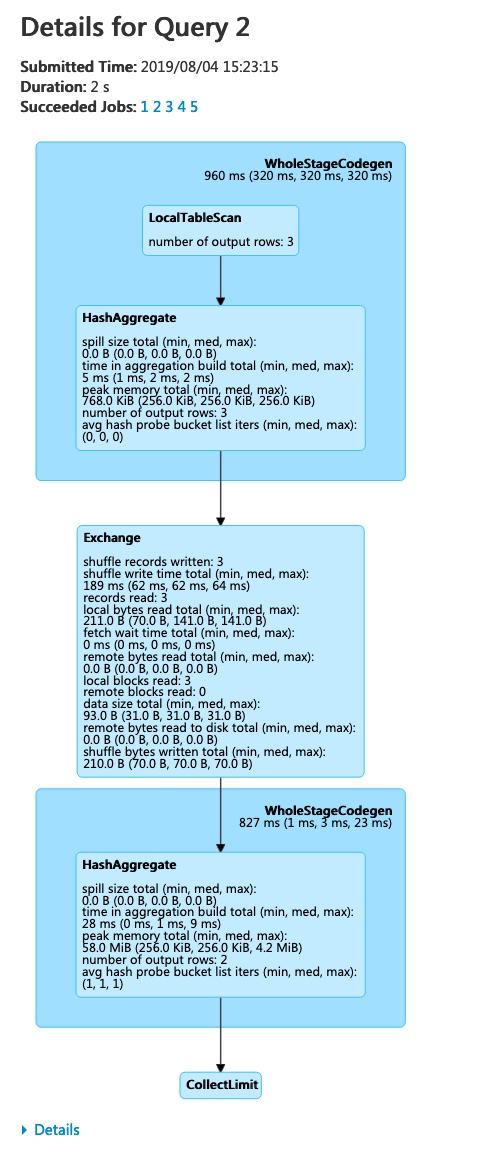
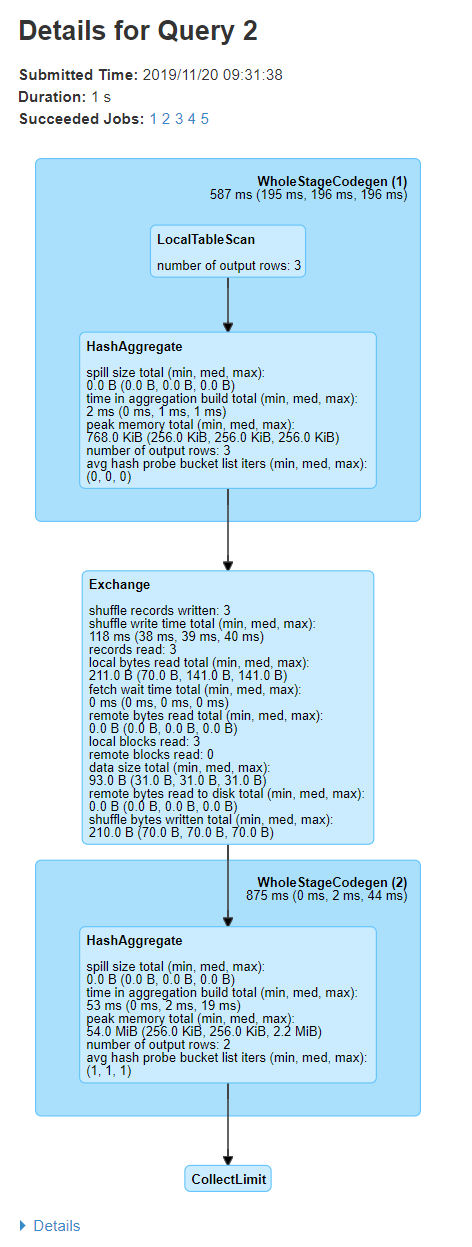
Updated documentation.

Changed region(s): [[0.0297, 0.0, 0.8898, 0.9671], [0.0297, 0.9671, 0.178, 0.9983]]

diff --git a/docs/web-ui.md b/docs/web-ui.md
@@ -336,7 +336,7 @@ scala> spark.sql("select name,sum(count) from global_temp.df group by name").sho
 </p>
 
 Now the above three dataframe/SQL operators are shown in the list. If we click the
-'show at \<console\>: 24' link of the last query, we will see the DAG of the job.
+'show at \<console\>: 24' link of the last query, we will see the DAG and details of the query execution.
 
 <p style="text-align: center;">
   <img src="img/webui-sql-dag.png"
@@ -346,8 +346,9 @@ Now the above three dataframe/SQL operators are shown in the list. If we click t
   <!-- Images are downsized intentionally to improve quality on retina displays -->
 </p>
 
-We can see that details information of each stage. The first block 'WholeStageCodegen'  
-compile multiple operator ('LocalTableScan' and 'HashAggregate') together into a single Java
+The query details page displays information about the query execution time, its duration,
+the list of associated jobs, and the query execution DAG.
+The first block 'WholeStageCodegen (1)' compiles multiple operators ('LocalTableScan' and 'HashAggregate') together into a single Java
 function to improve performance, and metrics like number of rows and spill size are listed in
 the block. The second block 'Exchange' shows the metrics on the shuffle exchange, including
 number of written shuffle records, total data size, etc.
@@ -362,6 +363,8 @@ number of written shuffle records, total data size, etc.
 </p>
 Clicking the 'Details' link on the bottom displays the logical plans and the physical plan, which
 illustrate how Spark parses, analyzes, optimizes and performs the query.
+Steps in the physical plan subject to whole stage code generation optimization, are prefixed by a star and
+report the code generation id, for example: "*(1) LocalTableScan"
 
 ### SQL metrics
 
